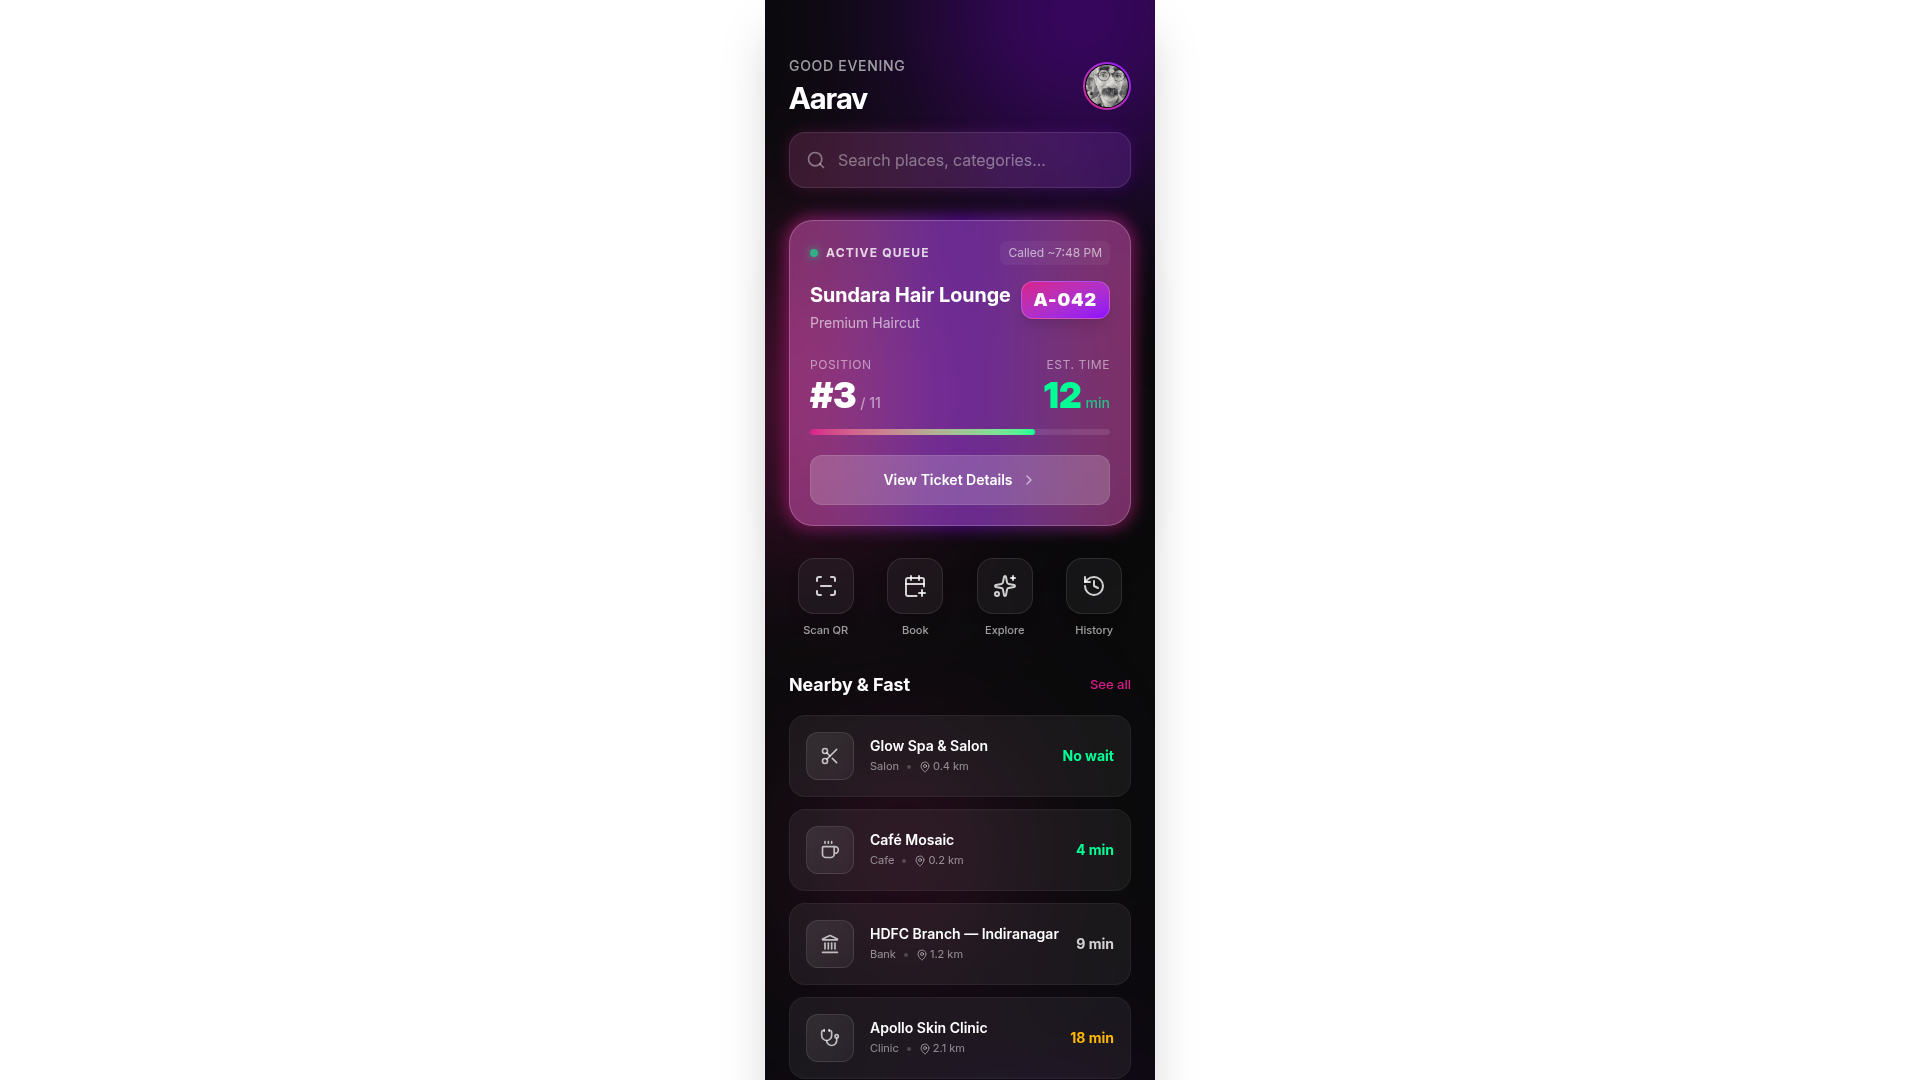
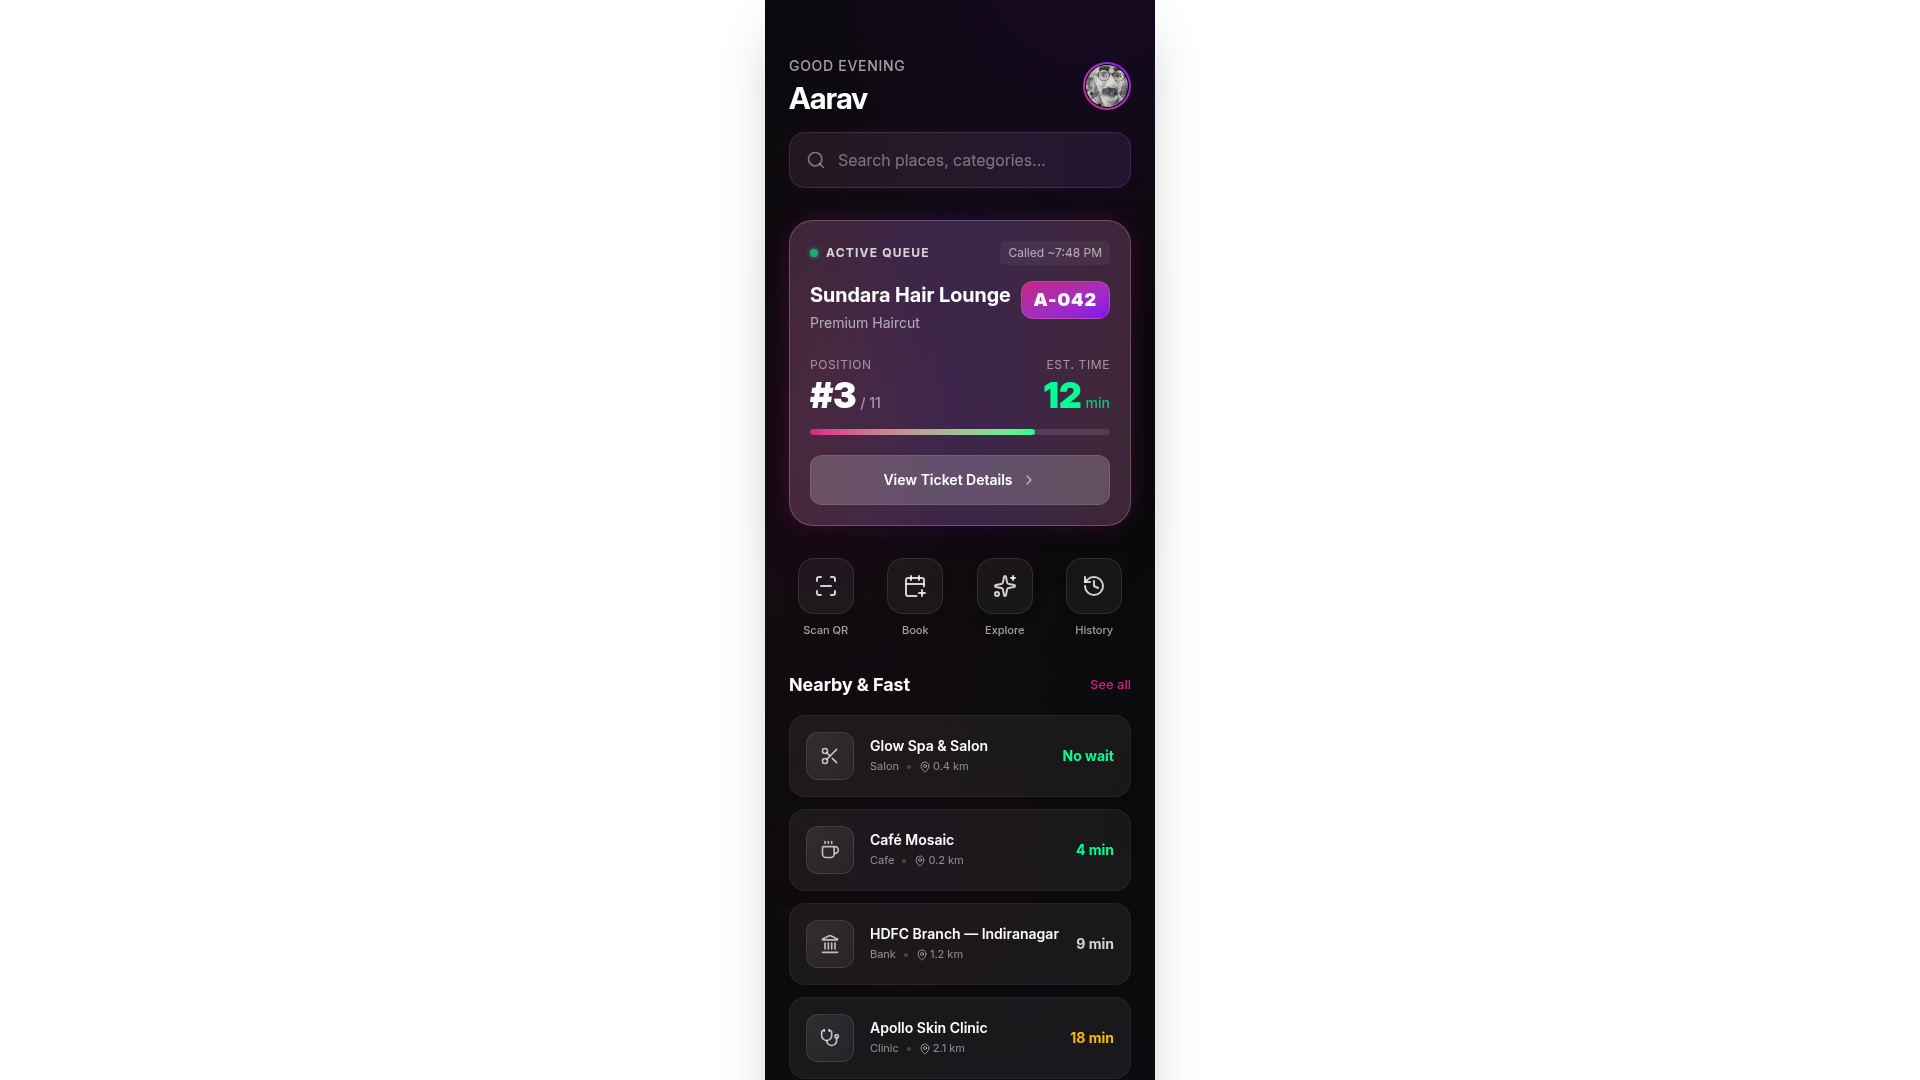
Make the Aurora Glow theme's visual effects more subtle
Reduce opacity and blur on background aurora effects, search bar glow, and active queue card elements in the AuroraGlow mockup component.

Replit-Commit-Author: Agent
Replit-Commit-Session-Id: c1740305-bacb-4023-8856-8caa1c75aae9
Replit-Commit-Checkpoint-Type: full_checkpoint
Replit-Commit-Event-Id: a04c67fc-3953-4aee-a271-29acfe2939af
Replit-Commit-Screenshot-Url: https://storage.googleapis.com/screenshot-production-us-central1/d51db51a-4520-4822-a057-a8067df5fb96/c1740305-bacb-4023-8856-8caa1c75aae9/rH0uOAa
Replit-Helium-Checkpoint-Created: true

Changed region(s): [[0.375, 0.0, 0.625, 0.5194]]

diff --git a/artifacts/mockup-sandbox/src/components/mockups/tiqkets-home/AuroraGlow.tsx b/artifacts/mockup-sandbox/src/components/mockups/tiqkets-home/AuroraGlow.tsx
@@ -22,11 +22,11 @@ export default function AuroraGlow() {
     <div className="relative w-[390px] h-[844px] bg-[#0A0A0B] text-white overflow-hidden font-sans mx-auto shadow-2xl ring-1 ring-white/10 flex flex-col">
       {/* Background Aurora Effect */}
       <div className="absolute top-0 left-0 w-full h-full overflow-hidden pointer-events-none z-0">
-        <div className="absolute top-[-10%] right-[-20%] w-[300px] h-[300px] bg-[#8F00FF] rounded-full mix-blend-screen filter blur-[100px] opacity-40 animate-pulse"></div>
-        <div className="absolute top-[20%] left-[-20%] w-[250px] h-[250px] bg-[#D91E8A] rounded-full mix-blend-screen filter blur-[90px] opacity-40"></div>
-        <div className="absolute bottom-[-10%] right-[-10%] w-[350px] h-[350px] bg-[#8F00FF] rounded-full mix-blend-screen filter blur-[120px] opacity-30"></div>
-        <div className="absolute bottom-[30%] left-[10%] w-[200px] h-[200px] bg-[#D91E8A] rounded-full mix-blend-screen filter blur-[80px] opacity-20"></div>
-        <div className="absolute inset-0 bg-[url('https://grainy-gradients.vercel.app/noise.svg')] opacity-20 mix-blend-overlay"></div>
+        <div className="absolute top-[-15%] right-[-25%] w-[320px] h-[320px] bg-[#8F00FF] rounded-full mix-blend-screen filter blur-[140px] opacity-[0.18]"></div>
+        <div className="absolute top-[25%] left-[-25%] w-[260px] h-[260px] bg-[#D91E8A] rounded-full mix-blend-screen filter blur-[130px] opacity-[0.15]"></div>
+        <div className="absolute bottom-[-15%] right-[-15%] w-[360px] h-[360px] bg-[#8F00FF] rounded-full mix-blend-screen filter blur-[160px] opacity-[0.12]"></div>
+        <div className="absolute bottom-[30%] left-[10%] w-[200px] h-[200px] bg-[#D91E8A] rounded-full mix-blend-screen filter blur-[120px] opacity-[0.08]"></div>
+        <div className="absolute inset-0 bg-[url('https://grainy-gradients.vercel.app/noise.svg')] opacity-10 mix-blend-overlay"></div>
       </div>
 
       <div className="relative z-10 flex-1 overflow-y-auto overflow-x-hidden no-scrollbar pb-24">
@@ -46,7 +46,7 @@ export default function AuroraGlow() {
         {/* Search */}
         <div className="px-6 mb-8">
           <div className="relative group">
-            <div className="absolute inset-0 bg-gradient-to-r from-[#D91E8A] to-[#8F00FF] rounded-2xl blur opacity-20 group-hover:opacity-40 transition duration-500"></div>
+            <div className="absolute inset-0 bg-gradient-to-r from-[#D91E8A] to-[#8F00FF] rounded-2xl blur opacity-[0.08] group-hover:opacity-20 transition duration-500"></div>
             <div className="relative flex items-center bg-white/5 backdrop-blur-xl border border-white/10 rounded-2xl px-4 py-3 h-14">
               <Search className="w-5 h-5 text-white/40 mr-3" />
               <input 
@@ -61,11 +61,11 @@ export default function AuroraGlow() {
         {/* Active Queue Card */}
         <div className="px-6 mb-8">
           <div className="relative">
-            <div className="absolute -inset-1 bg-gradient-to-r from-[#D91E8A] via-[#8F00FF] to-[#D91E8A] rounded-[28px] blur opacity-60 animate-pulse"></div>
+            <div className="absolute -inset-0.5 bg-gradient-to-r from-[#D91E8A] via-[#8F00FF] to-[#D91E8A] rounded-[28px] blur-md opacity-[0.18]"></div>
             <div className="relative bg-white/10 backdrop-blur-2xl border border-white/20 rounded-3xl p-5 shadow-2xl">
               <div className="flex items-center justify-between mb-4">
                 <div className="flex items-center gap-2">
-                  <div className="w-2 h-2 rounded-full bg-[#00FF94] shadow-[0_0_10px_#00FF94] animate-pulse"></div>
+                  <div className="w-2 h-2 rounded-full bg-[#00FF94] shadow-[0_0_4px_#00FF94] animate-pulse"></div>
                   <span className="text-xs font-bold text-white/80 uppercase tracking-widest">Active Queue</span>
                 </div>
                 <span className="text-xs text-white/60 bg-white/5 px-2 py-1 rounded-md">Called ~7:48 PM</span>
@@ -76,7 +76,7 @@ export default function AuroraGlow() {
                   <h2 className="text-xl font-bold mb-1">Sundara Hair Lounge</h2>
                   <p className="text-white/60 text-sm">Premium Haircut</p>
                 </div>
-                <div className="bg-gradient-to-br from-[#D91E8A] to-[#8F00FF] text-white px-3 py-1 rounded-xl shadow-lg border border-white/20">
+                <div className="bg-gradient-to-br from-[#D91E8A]/90 to-[#8F00FF]/90 text-white px-3 py-1 rounded-xl border border-white/15">
                   <span className="text-lg font-black tracking-wider">A-042</span>
                 </div>
               </div>
@@ -185,7 +185,7 @@ export default function AuroraGlow() {
       {/* Floating Bottom Nav */}
       <div className="absolute bottom-6 left-6 right-6 z-50">
         <div className="relative">
-          <div className="absolute -inset-2 bg-[#8F00FF]/20 rounded-[24px] blur-xl"></div>
+          <div className="absolute -inset-1 bg-[#8F00FF]/[0.08] rounded-[24px] blur-lg"></div>
           <nav className="relative bg-white/10 backdrop-blur-2xl border border-white/20 rounded-2xl h-16 flex items-center justify-around px-2 shadow-2xl">
             {[
               { icon: Home, label: "Home", active: true },
@@ -195,7 +195,7 @@ export default function AuroraGlow() {
             ].map((tab, i) => (
               <div key={i} className="flex flex-col items-center justify-center w-16 h-full cursor-pointer relative group">
                 {tab.active && (
-                  <div className="absolute top-0 w-8 h-1 bg-gradient-to-r from-[#D91E8A] to-[#8F00FF] rounded-b-full shadow-[0_0_8px_#D91E8A]"></div>
+                  <div className="absolute top-0 w-8 h-1 bg-gradient-to-r from-[#D91E8A] to-[#8F00FF] rounded-b-full"></div>
                 )}
                 <tab.icon className={`w-5 h-5 mb-1 ${tab.active ? 'text-white' : 'text-white/40 group-hover:text-white/70 transition'}`} />
                 <span className={`text-[10px] font-medium ${tab.active ? 'text-white' : 'text-white/40 group-hover:text-white/70 transition'}`}>{tab.label}</span>
